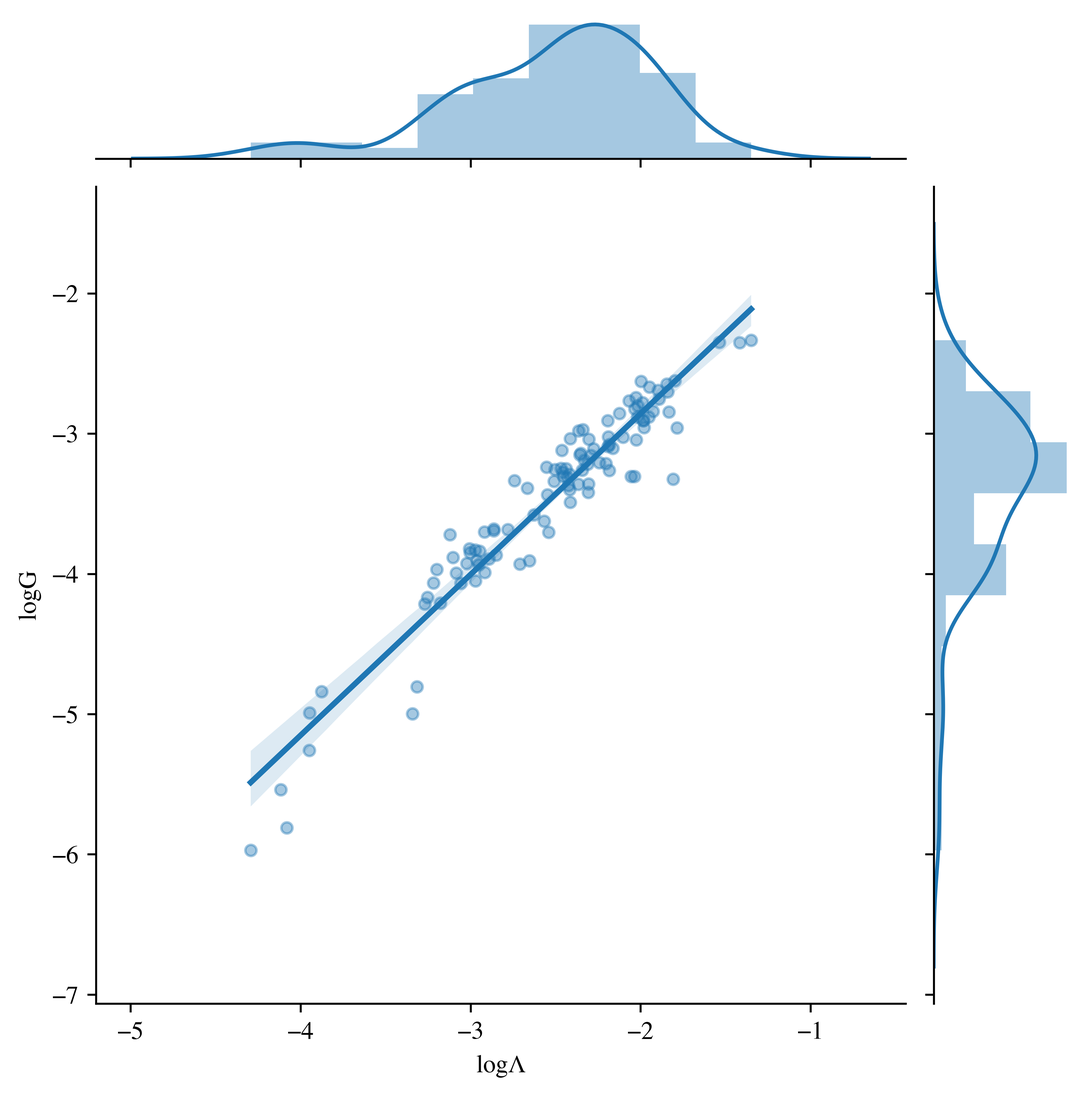
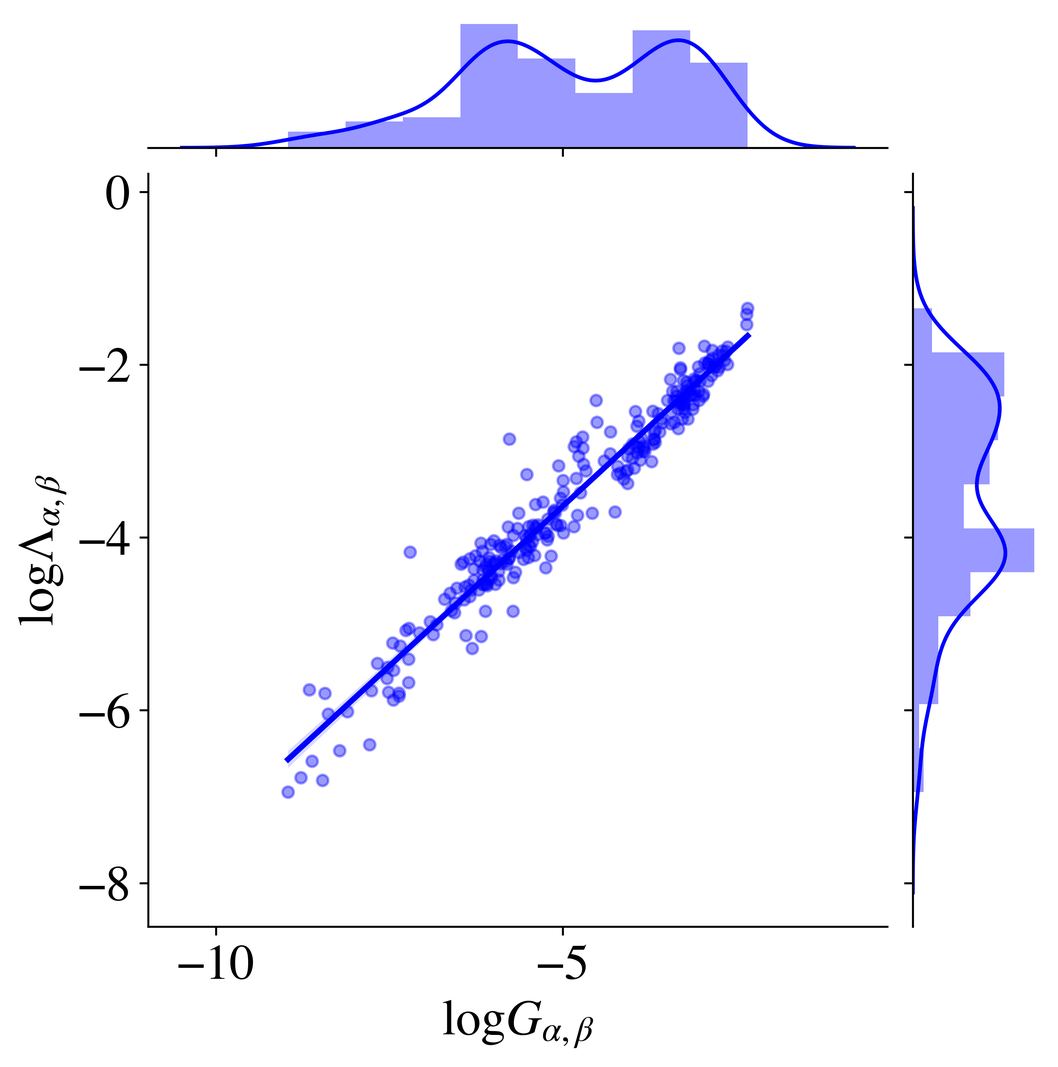
revision

diff --git a/source/10_chapter2_methods.md b/source/10_chapter2_methods.md
@@ -3,7 +3,7 @@
 # Theory, Materials and Methods {#cha2}
 
 ## Thermal conductivity {#thermalcondivity}
-According to the Green–Kubo relations, the steady-state transport coefficient can be obtained by dividing the space–time integral of the flux–flux equilibrium correlation function by k~B~T. A very detailed derivation process can be found in APPENDIX B: _Derivation of Green–Kubo Relation_ of book _Heat transfer physics_ by Massoud Kaviany.[@kaviany2008] Like other transport processes, e.g. viscosity, the thermal conductivity of the material can be derived from Green–Kubo relation and expressed in terms of the time autocorrelation function (ACF) of the heat current vector, $\bm{h}$, based on equilibrium fluctuation,
+According to the Green–Kubo relations, the steady-state transport coefficient can be obtained by dividing the space–time integral of the flux–flux equilibrium correlation function by *k~B~T*. A very detailed derivation process can be found in APPENDIX B: _Derivation of Green–Kubo Relation_ of book _Heat transfer physics_ by Massoud Kaviany.[@kaviany2008] Like other transport processes, e.g. viscosity, the thermal conductivity of the material can be derived from Green–Kubo relation and expressed in terms of the time autocorrelation function (ACF) of the heat current vector, $\bm{h}$, based on equilibrium fluctuation,
 
 $$
 \lambda = \frac {1} {3Vk_BT^2} \bm{\int_0^\infty} \left \langle \bm{h}(t) \cdot \bm{h}(0) \right \rangle dt,
@@ -163,8 +163,8 @@ These quantities are defined as the time-integrated autocorrelation functions (A
 
 $$
 \begin{aligned}
-\Lambda_{\alpha, \alpha} = \bm{\int} \langle \bm{h}_{\alpha,\alpha}(t) \cdot \bm{h}_{\alpha,\alpha}(0) \rangle dt \\
-\Lambda_{\alpha, \alpha+1} = \bm{\int} \langle \bm{h}_{\alpha, \alpha+1}(t) \cdot \bm{h}_{\alpha, \alpha+1}(0) \rangle dt
+&\Lambda_{\alpha, \alpha} = \bm{\int} \langle \bm{h}_{\alpha,\alpha}(t) \cdot \bm{h}_{\alpha,\alpha}(0) \rangle dt \\
+&\Lambda_{\alpha, \alpha+1} = \bm{\int} \langle \bm{h}_{\alpha, \alpha+1}(t) \cdot \bm{h}_{\alpha, \alpha+1}(0) \rangle dt
 \end{aligned}
 $$
 {#eq:eqc8}
@@ -362,7 +362,7 @@ $$
 $$
 {#eq:eqc19}
 
-All of the heat currents and their autocorrelation function calculations were performed using our CURP program, version 1.3[@yamato2022] based on 50 trajectories of _NVE_ molecular dynamics simulations, each of which started from the last step of different sampling trajectory in isotherma-isobaric _NPT_ ensemble at _T_ =300 K and _P_ = 1 atm.
+All of the heat currents and their autocorrelation function calculations were performed using our CURP program, version 1.3[@yamato2022] based on 50 trajectories of _NVE_ molecular dynamics simulations, each of which started from the last step of different sampling trajectory in isotherma-isobaric _NPT_ ensemble at _T_ = 300 K and _P_ = 1 atm.
 
 ## Inter-residue heat current analysis
 
@@ -371,7 +371,7 @@ it would be helpful to analyse the thermal energy transfer through such native c
 We first derive atomistic expression of heat current for a molecular system based on linear response theory, and the derivation process is detailed in @sec:interatomicheatcurrent.
 The inter-atomic heat current between atoms $i$ and $j$ in a molecule, denoted as $\bm{h_{ij}}$, can be expressed as:
 $$
-{\bm{h_{ij}}} = ({\bm{r}_i}-{\bm{r}_j}) \{ \frac{1}{2} \bm{F}_{ij} \cdot ({\bm{v}_i} + {\bm{v}_j} )\}
+{\bm{h_{ij}}} = ({\bm{r}_i}-{\bm{r}_j}) \left\{ \frac{1}{2} \bm{F}_{ij} \cdot ({\bm{v}_i} + {\bm{v}_j} ) \right\}
 $$
 {#eq:eqd1}
 <!-- prettier-ignore-end -->
@@ -448,7 +448,7 @@ All calculations of $\lambda_{\alpha, \beta}$ and $G_{\alpha, \beta}$ between ea
 
 ![Molecules used to obtain the tuned force field parameters for met-FixLH-imd dimer system. (a) The molecule used in Gaussian optimization calculations to obtain the Fe^3+^ metal associated bond and angle parameters. (b) The molecule used in Gaussian RESP partial charge calculations to obtain the partial charges for the metal site.](figures/fixl/met-fixl-imd-force-field.jpg){#fig:met-fixl-imd-force-field width=70%}
 
-To investigate the interplay between allosteric signal transduction and the thermal energy transfer in the oxygen sensor domain of _Bj_FixL proteins.
+To investigate the interplay between allosteric signal transduction and the thermal energy transfer in the oxygen sensor domain of *Bj*FixL proteins.
 We conducted the MD simulation.
 The force-field parameters of the non-standard part of dimeric FixLHs were
 generated using MCPB.py module[@li2016;@li2017] of AmberTools 15.
@@ -461,16 +461,16 @@ acetyl groups (ACE) to mimic the protein backbone. Optimization and
 force constant calculations for the small model and the Merz-Kollman
 RESP charge calculations for the large model were performed using
 Gaussian 16 package with the B3LYP/6-31G(d) level of
-theory[@goerigk2011;@sousa2007a] and the ultrafine grid. Fe^3+^ with spin state S=5/2 and
-S=1/2[@edler2014] were used in Gaussian calculations for met-FixLH and
+theory[@goerigk2011;@sousa2007a] and the ultrafine grid. Fe^3+^ with spin state S= 5/2 and
+S= 1/2[@edler2014] were used in Gaussian calculations for met-FixLH and
 met-FixLH-imd protein, respectively (@tbl:quantumcalculation).
   
-|               | Spin=2              | Spin=4        | Spin=6         |
+|               | Spin = 2              | Spin = 4        | Spin = 6         |
 | :------------ | :------------------- | :------------ | :--------------- |
 | Met-Heme      | -3402.1853060                  | -3402.1959457 | \textcolor{red}{-3402.1976629} |
 | Imdazole-Heme | \textcolor{red}{-3627.8693349} |               | -3627.8189808                  |
 
-: Quantum calculation results of met-FixLH and met-FixLH-IMD. Hart Fork Energy (unit: a.u.) comparison among different spin states of met-FiLH and met-FixLH-IMD. {#tbl:quantumcalculation}
+: Quantum calculation results of met-FixLH and met-FixLH-imd. Hartree-Fork Energy (unit: a.u.) comparison among different spin states of met-FiLH and met-FixLH-imd. {#tbl:quantumcalculation}
 
 ## Equilibrium molecular dynamics simulations
 
@@ -510,15 +510,15 @@ Each solvated system contains about \~ 60, 000 atoms.
 The Amber ff14SB force field[@maier2015] was used to model the standard residues of the proteins except for H200.
 Quantum calculations were performed to tune the force field to model the heme, ligands, and H200 and calculation details were described in @sec:parameterization.
 The long-range electrostatic interactions were treated with the particle mesh Ewald method[@essmann1995] and nonbonded particle-particle interactions[@duan2001] were considered using a 9.0 Å cutoff. The time step for all MD simulations was set as 2.0 fs and SHAKE was used to constrain hydrogens for production run MD simulations.
-To prevent the dissociation of A'α helices, a harmonic restraint with a spring constant of 10 kcal/mol·Å^2^ was applied to the bond between two CA atoms of residue I128 of chain A and chain B.
+To prevent the dissociation of A'α helices, a harmonic restraint with a spring constant of 10 kcal/(mol·Å^2^) was applied to the bond between two CA atoms of residue I128 of chain A and chain B.
 
 ### Minimization
 
 The periodic boundary condition was applied to all simulation systems.
 Nonbonded particle-particle interactions[@cornell1995] were taken into account using a distance cutoff of 9 Å, and long-range electrostatic interactions were handled using the particle mesh Ewald (PME) method [@sagui2004].
 
-The energy minimization of simulation systems contains three steps, (1) fixing all the heavy atoms and only relaxing hydrogen atoms, (2) optimizing the side-chain atoms with positional restraints of 99.9 (kcal/mol)/Å^2^ on the backbone atoms (N, Cα, C, O), (3) the positions of the main chain atoms were optimized with positional restraints of 2.0 (kcal/mol)/Å^2^. After that, a Maxwell-Boltzmann distribution of initial atomic velocities was generated at 0.1 K and each system was heated from 0.1 to 300 K for 50 ps by performing constant temperature, constant volume (_NVT_) MD simulations with the relaxation time of 0.1 ps and a positional restraint of 2.0 (kcal/mol)/Å^2^ on the backbone atoms.
-With the same positional restraints, a 50-ps _NVT_ MD simulation was performed at _T_ = 300 K, followed by a 200 ps Langevin MD simulation at _T_ = 300 K with a collision frequency of 2.0 ps^-1^ with positional restraints switched-off.
+The energy minimization of simulation systems contains three steps, (1) fixing all the heavy atoms and only relaxing hydrogen atoms, (2) optimizing the side-chain atoms with positional restraints of 99.9 kcal/(mol Å^2^) on the backbone atoms (N, Cα, C, O), (3) the positions of the main chain atoms were optimized with positional restraints of 2.0 kcal/(mol Å^2^). After that, a Maxwell-Boltzmann distribution of initial atomic velocities was generated at 0.1 K and each system was heated from 0.1 to 300 K for 50 ps by performing constant temperature, constant volume (_NVT_) MD simulations with the relaxation time of 0.1 ps and a positional restraint of 2.0 kcal/(mol Å^2^) on the backbone atoms.
+With the same positional restraints, a 50-ps _NVT_ MD simulation was performed at _T_ = 300 K, followed by a 200 ps Langevin MD simulation at _T_ = 300 K with a collision frequency of 2.0 ps^–1^ with positional restraints switched-off.
 
 ### Equilibration
 We started five (twenty) independent MD simulations from the minimum-energy conformation of HP36 (each of the *Bj*FixL) system, with different Maxwell-Boltzmann velocity distributions at _T_ = 0.1 K, while keeping positional restraints imposed on the mainchain atoms.
@@ -573,7 +573,7 @@ The mean absolute error (MAE) loss was calculated for the split quality measurem
 The bootstrapping method was used to randomly sample the subsets of the training dataset to build the model.
 The random forest regression model (estimator) performance is affected by the choice of its hyperparameters, such as the number of decision trees and the maximum number of splits for each decision tree.
 To improve the accuracy of predictions and avoid underfit or overfit problems, the _RandomizedSearchCV_ function in the scikit-learn library was used to tune the hyperparameters and to obtain the best estimator.
-R^2^ and root-mean-squared error (RMSE) for the training data set and for the testing data set were calculated to evaluate the model performance.
+*R*^2^ and root-mean-squared error (RMSE) for the training data set and for the testing data set were calculated to evaluate the model performance.
 Because the explanatory variables were considered contain categorical data, such as, _interaction type_ and _residue type_,
 we applied the _LabelEncoder_ function of Python to give a unique integer to each categorical explanatory variable for regression analysis.
 The feature importance for all explanatory variables was evaluated using permutation feature importance rather than impurity-based feature importance to avoid misleading for high cardinality features.
@@ -617,17 +617,22 @@ Finally, restrained-ensemble molecular dynamics (reMD) simulations[@roux2013;@sh
 ![(A) Refinement scheme for the model obtained from AlphaFold2. (B) Starting model for the harmonic restrained MD simulations. C) Distances (blue) and distance distributions (black) between spin label pairs of the starting model for reMD simulation and DEER experiment data, respectively.](figures/cp12/scheme.jpg){#fig:scheme width=100%}
 
 ### FASTA sequence of CP12{#sec:sequence}
-From CP12's complete amino acid sequence, we used the segment of 163 residues (shown in blue) served as the input for AlphaFold2 modeling as follows:
+From wild type of CP12's complete amino acid sequence, we used the segment of 163 residues (shown in blue) served as the input (WT) for AlphaFold2 modeling as follows:
 
-MKIFLASLIGSCAAFAPAPFGKSPTALFGRVDTS\textcolor{blue}{AIEAALDASKKFGSTSSEARVLWDIVEEMDASDNSVASKAPI
-VDSEYEAKVKSLSQMLTKTKAELDQVKALADDLKGVKLASPSVGSSAPDDSVMKEALAAARAATEEFGQSSPQ
-ARLAWETVEEIAASPVDIRAPLDEECLIELIEGCEALEKFQAALGSR}
+MKIFLASLIGSCAAFAPAPFGKSPTALFGRVDTS\textcolor{blue}{AAIEAALDASKKFGSTSSEARVLWDIVEEMDASDNSVAS
+KAPIVDSEYEAKVKSLSQMLTKTKAELDQVKALADDLKGVKLASPSVGSSAPDDSVMKEALAAARAATEEFGQ
+SSPQARLAWETVEEIAASPVDIRAPLDEECLIELIEGCEALEKFQAALGSR} (WT)
 
 In addition, to consider the influence of mutants in the EPR/DEER experiment, two mutant sequences are considered to predict the CP12's dimer.
 Their sequences are as follows:
-S46: 
 
-S56:
+AAIEAALDASKKFGSTSSEARVLWDIVEEMDASDNSVASKAPIVDCEYEAKVKSLSQMLTKTKAELDQVK
+ALADDLKGVKLASPSVGSSAPDDSVMKEALAAARAATEEFGQSSPQARLAWETVEEIAASPVDIRAPLDEE
+SLIELIEGSEALEKFQAALGSR (S46)
+
+AAIEAALDASKKFGSTSSEARVLWDIVEEMDASDNSVASKAPIVDSEYEAKVKSLCQMLTKTKAELDQVK
+ALADDLKGVKLASPSVGSSAPDDSVMKEALAAARAATEEFGQSSPQARLAWETVEEIAASPVDIRAPLDEE
+SLIELIEGSEALEKFQAALGSR (S56)
 
 ### AlphaFold2 prediction
 Using AlphaFold v2.1.1-Multimer (AF2) and the default databases,[@jumper2021;@evans2021;@tunyasuvunakool2021], the structure of the CP12 homodimer was predicted.
@@ -676,7 +681,7 @@ In order to save computational resources, we attached 25 copies of all-atom CYR1
 The N, Cα, C, and O atoms of each spin label were fixed to the corresponding atom positions in the labeled residues (@fig:spin-label) throughout the entire reMD simulations using a force constant of 10 kcal/(mol·Å^2^).
 The force field of all-atom CYR1 spin label[@islam2015] was obtained using CHARMM-GUI.
 We allowed the spatial overlap between these 25 copies by igonring their mutual interactions.
-Five independent all-atom reMD simulations, each with five different random number seeds were conducted at 303.15 K using Langevin dynamics and a damping coefficient of 5 ps^-1^.
+Five independent all-atom reMD simulations, each with five different random number seeds were conducted at 303.15 K using Langevin dynamics and a damping coefficient of 5 ps^–1^.
 Prior to each reMD production run, we carried out minimization and equilibration, kepping the positions of the backbone atoms with harmonic restraints of 2 kcal/(mol·Å^2^) imposed on them, while no restraints were imposed on the sidechain atoms.
 For further improvement of the models, we turned off the harmonic restrictions imposed on the backbone atoms and continued the reMD simulations for 2 ns with a 0.5-fs time step.
 The particle mesh Ewald (PME) method[@petersen1995] was used to evaluate the long-range electrostatic interactions, and the nonbonded interactions were truncated at a distance cutoff of 10 Å.

diff --git a/source/12_chapter4_hp36_nonbonded.md b/source/12_chapter4_hp36_nonbonded.md
@@ -5,16 +5,16 @@
 
 ## Thermal conductivity and energy conductivity
 
-![Plot of inter-residue thermal conductivity ($\lambda_{\alpha, \beta}$) and energy conductivity ($G_{\alpha, \beta}$). Residue pairs are classified by residue type of native contacts.](figures/non-bonded/lambda-energy.png){#fig:lambda_energy width=50%}
+![Correlation of $\Lambda_{\alpha, \beta}$ and $G_{\alpha, \beta}$.](figures/non-bonded/heat-energy.png){#fig:lambda_energy width=50%}
 
-In previous studies, we explored the energy transport network in proteins by analyzing the _inter-residue energy conductivity_ ($G_{\alpha, \beta}$).[@ishikura2006;@leitner2010;@ishikura2015;@ota2019;@poudel2020]
+In the previous studies, we explored the energy transport network in proteins based on the time-integrated ACF of the _inter-residue energy flow_ ($G_{\alpha, \beta}$).[@ishikura2006;@leitner2010;@ishikura2015;@ota2019;@poudel2020]
 As a carrier of energy for heat, we are wondering whether there are any correlations between heat and energy transfer among different partial sites, i.e., different residues. Relating the inter-residue thermal conductivity and energy conductivity will be helpful to understand the property of heat and energy transfer in proteins.
 
-From [@eq:eqd1;@eq:eqd4;@eq:eqd5;@eq:eqd7], we can see that the difference between thermal conductivity $\lambda_{\alpha, \beta}$ and energy conductivity ($G_{\alpha, \beta}$) is that for the latter its energy flow term ($\bm J_{ij}$) lacks of position vector, ($\bm r_i- \bm r_j$), which represents the distance information of the residues while MD simulations.
-To investigate this issue, we plotted the scatter dots $\lambda_{\alpha, \beta}$ and $G_{\alpha, \beta}$ in [@fig:lambda_energy] and performed the linear regression analysis.
-Interestingly, the Pearson correlation analysis showed a significant relationship statistically between $\lambda_{\alpha, \beta}$ and $G_{\alpha, \beta}$, with $r = 0.97, \, p << 0.05 \,(4.47 \times 10^{-168})$.
-To get an estimated linear regression model that can expresses their relationship, a fitted model is given here: $\log{\lambda_{\alpha, \beta}} = 0.73 \times \log{{G}_{\alpha, \beta}} - 0.30$ with $R^2 = 0.94$.
-The high similarity between $\lambda_{\alpha, \beta}$ and $G_{\alpha, \beta}$ indicates that the 
+From [@eq:eqd1;@eq:eqd4;@eq:eqd5;@eq:eqd7], we can see that the difference between thermal conductivity $\Lambda_{\alpha, \beta}$ and energy conductivity ($G_{\alpha, \beta}$) is that for the latter its energy flow term ($J_{ij}$) lacks of position vector, ($\bm r_i- \bm r_j$), which represents the distance information of the residues while MD simulations.
+To investigate this issue, we plotted the scatter dots $\Lambda_{\alpha, \beta}$ and $G_{\alpha, \beta}$ in [@fig:lambda_energy] and performed the linear regression analysis.
+Interestingly, the Pearson correlation analysis showed a statistically significant correlation between $\Lambda_{\alpha, \beta}$ and $G_{\alpha, \beta}$, with $r = 0.97, \, p \ll 0.05 \,(8.0 \times 10^{-173})$.
+To get an estimated linear regression model that can expresses their relationship, a fitted model is given here: $\log{\Lambda_{\alpha, \beta}} = 0.74 \times \log{{G}_{\alpha, \beta}} + 0.06$ with *R*^2^ = 0.95.
+The high similarity between $\Lambda_{\alpha, \beta}$ and $G_{\alpha, \beta}$ indicates that the behavior of the energy flow and heat current can be mutually represented by each other.
 
 ## Interaction type dependence
 
@@ -22,10 +22,10 @@ The high similarity between $\lambda_{\alpha, \beta}$ and $G_{\alpha, \beta}$ in
 
 [@fig:histogram_lambda] shows a histogram plot of the calculated $\lambda_{\alpha, \beta}$ through nonbonded contacts, residue-wise $\lambda$ and $\lambda_{\alpha, \beta}$ values of contacts between peptide-bonded residues.
 The x-axis represents the values of $\lambda$, while the y-axis shows the frequency of occurrence of each value.
-The histogram reveals that the hydrogen bond contacts have the greatest values of $\lambda_{\alpha, \beta}$ among all nonbonded contacts, with a peak at around $2.5 \times 10^{-2}$ W m^-1^ K^-1^.
-This is followed by electrostatic contacts with $\lambda_{\alpha, \beta}$ values ranging from $10^{-5}$ to $10^{-3}$ W m^-1^ K^-1^. However, their distribution appears to be broader and less sharply peaked compared to hydrogen bond contacts.
+The histogram reveals that the hydrogen bond contacts have the greatest values of $\lambda_{\alpha, \beta}$ among all nonbonded contacts, with a peak at around 2.5 $\times$ 10^–2^ W m^–1^ K^–1^.
+This is followed by electrostatic contacts with $\lambda_{\alpha, \beta}$ values ranging from $10^{-5}$ to $10^{-3}$ W m^–1^ K^–1^. However, their distribution appears to be broader and less sharply peaked compared to hydrogen bond contacts.
 In the hydrophobic core of HP36, there are three $\pi$ stacking contacts: Phe7-Phe11 ($\lambda_{7,11}=4.9 \times 10^{-3}$), Phe7-Phe18 ($\lambda_{7,11}= 1.5 \times 10^{-3}$), and Phe11-Phe18 ($\lambda_{11,18}= 1.5 \times 10^{-3}$), with $\lambda_{\alpha, \beta}$ values that comparable with hydrogen bond contacts. 
-Hydrophobic contacts, which have the most number of pairs and broad distributions ranging from $10^{-7}$ to $10^{-2}$ W m^-1^ K^-1^, have much lower $\lambda_{\alpha, \beta}$ values, with peaks at around $5.9 \times 10^{-4}$ W m^-1^ K^-1^.
+Hydrophobic contacts, which have the most number of pairs and broad distributions ranging from $10^{-7}$ to $10^{-2}$ W m^–1^ K^–1^, have much lower $\lambda_{\alpha, \beta}$ values, with peaks at around $5.9 \times 10^{-4}$ W m^–1^ K^–1^.
 Overall, the histogram demonstrates that different types of nonbonded contacts have significantly different contributions to thermal transport in the protein, with hydrogen bonds playing the most important role in this HP36 protein.
 
 ## Peptide bonds? or nonbonded contacts?
@@ -33,9 +33,9 @@ Overall, the histogram demonstrates that different types of nonbonded contacts h
 ![The $\lambda$ values of contacts between peptide bonded residue pairs.](figures/non-bonded/line-intra-inter-lambda.png){#fig:inter_lambda width=70%}
 
 In light of the ongoing debate on thermal energy transport through peptide bonds and contacts [@deniz2021;@mizutani2022;@buchenberg2016], we also plotted and compared the residue-wise $\lambda$ and $\lambda_{\alpha, \beta}$ values of peptide-bonded contacts in [@fig:histogram_lambda].
-The residue-wise $\lambda$ values are ranging from about 0.08 to 0.3 W m^-1^ K^-1^, while $\lambda_{\alpha, \beta}$ values of peptide-bonded contacts are ranging from about 0.01 to 0.08 W m^-1^ K^-1^.
+The residue-wise $\lambda$ values are ranging from about 0.08 to 0.3 W m^–1^ K^–1^, while $\lambda_{\alpha, \beta}$ values of peptide-bonded contacts are ranging from about 0.01 to 0.08 W m^–1^ K^–1^.
 Our results showed that both residue-wise $\lambda$ and the majority of $\lambda_{\alpha, \beta}$ values of peptide-bonded contacts were larger than those of nonbonded contacts.
-However, we observed three exceptions $\lambda_{3, 6}=2.4 \times 10^{-2}$, $\lambda_{4, 15}=1.3 \times 10^{-2}$, and $\lambda_{5, 8}=2.1 \times 10^{-2}$, where their $\lambda$ values exceed $10^{-2}$ W m^-1^ K^-1^ that the thermal transport through those contacts is able to compete with that along the peptide chain.
+However, we observed three exceptions $\lambda_{3, 6}=2.4 \times 10^{-2}$, $\lambda_{4, 15}=1.3 \times 10^{-2}$, and $\lambda_{5, 8}=2.1 \times 10^{-2}$, where their $\lambda$ values exceed $10^{-2}$ W m^–1^ K^–1^ that the thermal transport through those contacts is able to compete with that along the peptide chain.
 The relatively faster thermal transport through contacts of Ser3-Asp6 and Asp4-Arg15 have also been identified with a relatively higher local energy diffusivity in studies by non-equilibrium MD simulations and master equation model.[@buchenberg2016]
 These contacts are referred to as "shortcuts", as they provide an efficient energy transport pathway despite being distant along the protein sequence.
 This suggests that peptide bonds play a significant role in thermal transport within proteins in HP36, highlighting the importance of considering both peptide bonds and nonbonded contacts in studies of thermal transport in proteins.

diff --git a/source/09_chapter1_intro.md b/source/09_chapter1_intro.md
@@ -49,7 +49,7 @@ In 2007, Gerhard Stock and his coworkers investigated the energy transfer throug
 Non-equilibrium MD simulations were also employed to simulate the dissipation of excitation energy from an unnatural amino acid (acting as a built-in heater), allowing the mapping of vibrational energy transport pathways originating from the heater.
 It demonstrated that 70% of the energy absorbed by the helix quickly equilibrates within a timeframe of less than a picosecond to the solvent and subsequently spreads along the helix through a diffusive-like process.
 The non-equilibrium MD simulations mimic the laser excitation of the molecules by the non-equilibrium phase-space initial condition for the solute and the solvent atoms.
-The fitted experimental and simulated thermal diffusivity values along the peptide chain with 1D diffusion process were 10 Å^2^ ps^\textminus1^ and 2 Å^2^ ps^\textminus1^, respectively.[@botan2007]
+The fitted experimental and simulated thermal diffusivity values along the peptide chain with 1D diffusion process were 10 Å^2^ ps^–1^ and 2 Å^2^ ps^–1^, respectively.[@botan2007]
 Subsequently, the non-equilibrium MD simulations techniques were employed on various proteins, such as villin headpiece subdomain (HP36)[@leitner2015;@buchenberg2016], photoswitchable PDZ domain (PDZ2S)[@buchenberg2017], heptahelical transmembrane proteins[@helmer2022a] and so on.[@deniz2021]
 Numerous results are yielded by these studies including scaling rules for vibrational energy transport in proteins through the backbone and nonbonded native contacts, competition of vibrational energy transport between bonds and contacts, and the role of energy transport on the allosteric mechanism in functional proteins.
 Besides, John E. Straub and his coworkers have employed non-equilibrium classical MD simulations to study the spatially anisotropic “funneling” mechanism for the kinetic energy relaxation of the excited heme group in solvated myoglobin by directly depositing excess kinetic energy on heme.
@@ -183,7 +183,7 @@ For instance, we expect that a protein molecule, as a biomolecular machine, shou
 Accordingly, we also expect possible alteration of energy transfer pathways induced by the stimulus.
 
 Using non-equilibrium MD simulations, the significance of different types of nonbonded contacts and the competition with the backbone have been studied in several proteins.
-A computational study showed the dominating energy transfer efficiency of the backbone with a much higher energy diffusion constant of 1.25 nm^2^ ps^\textminus1^ in HP36 than through nonbonded contacts with much smaller diffusion constants (1.1 × 10^-4^ for polar contacts and 3.6 × 10^-7^ for nonpolar contacts).[@buchenberg2016]
+A computational study showed the dominating energy transfer efficiency of the backbone with a much higher energy diffusion constant of 1.25 nm^2^ ps^–1^ in HP36 than through nonbonded contacts with much smaller diffusion constants (1.1 × 10^–4^ for polar contacts and 3.6 × 10^–7^ for nonpolar contacts).[@buchenberg2016]
 In a joint experimental and computational study, the hydrogen bonds are found to be the dominant energy transfer pathway in $\beta$-hairpin fold.[@deniz2021]
 On the contrary, a series of experimental findings on the heme proteins clearly demonstrated that the primary pathway for energy transfer from the heme group to the protein does not involve the covalent bond between the heme and the protein (Trp residue).
 Instead, the predominant route involves atomic interactions between the heme group and the Trp residue.[@kondoh2016;@yamashita2018;@mizutani2022]
@@ -194,9 +194,9 @@ To quantitatively access the competition of different pathways (backbone and non
 For structural property, David M. Leitner's group found that the correlations of energy transfer rate are linearly correlated with the mean-square distance for charged contacts between charged residue pairs in myoglobin.[@reid2018]
 For dynamics, they also discovered that the energy transfer rate has a good correlation with the variance in the length of the contact for polar and hydrophobic contacts.[@buchenberg2016;@reid2018;@leitner2019;@poudel2020;@reid2020;@leitner2020a;@poudel2022;@poudel2023]
 The hydrogen bonds have been found to facilitate the thermal transport in proteins and protein-based materials.
-For instance, the thermal conductivity of $\pi-$helices, which have a stronger hydrogen bond strength, is two folds and three folds higher than that of $\alpha-$ and $3_{10}-$ helices, respectively.[@he2021]
+For instance, the thermal conductivity of $\pi$-helices, which have a stronger hydrogen bond strength, is two folds and three folds higher than that of $\alpha$- and $3_{10}$- helices, respectively.[@he2021]
 Hydrogen bonding has been identified as the main contributor to the increase in the thermal conductivity of spider silk protein.[@zhang2014]
-It has been reported that the thermal conductivity of spider silk protein is 1-2 orders of magnitude higher than that of globular proteins.
+It has been reported that the thermal conductivity of spider silk protein is 1 - 2 orders of magnitude higher than that of globular proteins.
 Furthermore, hydrogen bonding has been shown to facilitate dominant vibrational energy transfer pathways in $\beta$-hairpin structures, competing with energy transport along the backbone.[@deniz2021]
 The scaling rules for rates of vibrational energy transfer in proteins have been extensively studied in various proteins, including HP36[@buchenberg2016;@poudel2020], myoglobin[@reid2018], deoxy-HbI/oxy-HbI[@leitner2019;@reid2020;@leitner2020a], A2A adenosine receptor[@leitner2020a], and GPCR proteins[@poudel2022;@poudel2023], by David M. Leitner and his colleagues.
 These scaling rules have been validated and found to work particularly well for hydrogen bonding contacts, especially those within a distance of less than 2.8 Å.

diff --git a/source/05_abstract.md b/source/05_abstract.md
@@ -1,4 +1,4 @@
-\newpage
+<!-- \newpage
 # ABSTRACT {-}
 Proteins, molecular machines in the cell, play crucial roles in a broad range of biological processes. In particular, thermal energy transport is among the essential biophysical properties of proteins; however, its relationship with protein structures, dynamics, and functions is still elusive.
 
@@ -10,4 +10,4 @@ Second, the doctoral candidate examined the roles of non-bonded interactions in 
 
 As an application, the doctoral candidate examined the allosteric signaling mechanism of the oxygen sensory domain of FixL protein by computing its vibrational energy transport network, which mediates heat dissipation. As another application, she developed a hybrid approach of deep learning, MD simulation, SAXS, and EPR/DEER to characterize the ensemble of a chloroplast protein, CP12, which contains intrinsically disordered regions (IDRs).
 
-In summary, the doctoral candidate established a computational method of site-selective heat current analysis of proteins. Furthermore, she examined a possible interplay between allosteric signal transduction and thermal energy transport. By using machine learning techniques, she characterized complex biophysical properties of proteins such as non-uniform thermal energy transport or conformational ensemble of highly flexible proteins including IDRs.
+In summary, the doctoral candidate established a computational method of site-selective heat current analysis of proteins. Furthermore, she examined a possible interplay between allosteric signal transduction and thermal energy transport. By using machine learning techniques, she characterized complex biophysical properties of proteins such as non-uniform thermal energy transport or conformational ensemble of highly flexible proteins including IDRs. -->

diff --git a/source/15_chapter7_conclusions.md b/source/15_chapter7_conclusions.md
@@ -68,3 +68,15 @@ The method consists of three stages: (1) Obtaining an initial guess structure ba
 The simulated SAXS curve and inter-label distance distributions of our CP12 model were in good agreement with the experimental data, indicating that a combination of deep learning based algorithms like AlphaFold-Multimer, MD simulations, SAXS, and EPR/DEER experiments would provide a new possibility for structural characterization of IDRs and their complexes.
 
 ## Future Directions
+
+Inspired by the results in this study, two possible directions are worthy to be investigated further in the future.
+
+1. The secondary structure dependence of thermal transport in proteins.
+
+In proteins, hydrogen bonds participate in stabilizing local structures to form different types of secondary structures.
+The hydrogen bonds between the main-chain NH and C'=O groups of residue α and α+4 result in α-helix, while the hydrogen bonds between the main-chain NH and C'=O groups of different regions of the polypeptide chain result in β-sheet, either parallel or antiparallel types.
+It is unknown how the different types of secondary structures will affect the thermal transport in proteins.
+
+2. The effect of solvent model on the thermal transport properties in protein.
+In this study, the thermal conductivity values of HP36 with a typical rigid TIP3P water model exhibited a decrease number, compared to the value using the same flexible TIP3P water model.
+It raises the interest of will the change of water solvent flexibility will change vibration frequency at the water-protein interface, accordingly to influence the thermal transport properties of protein itself?
